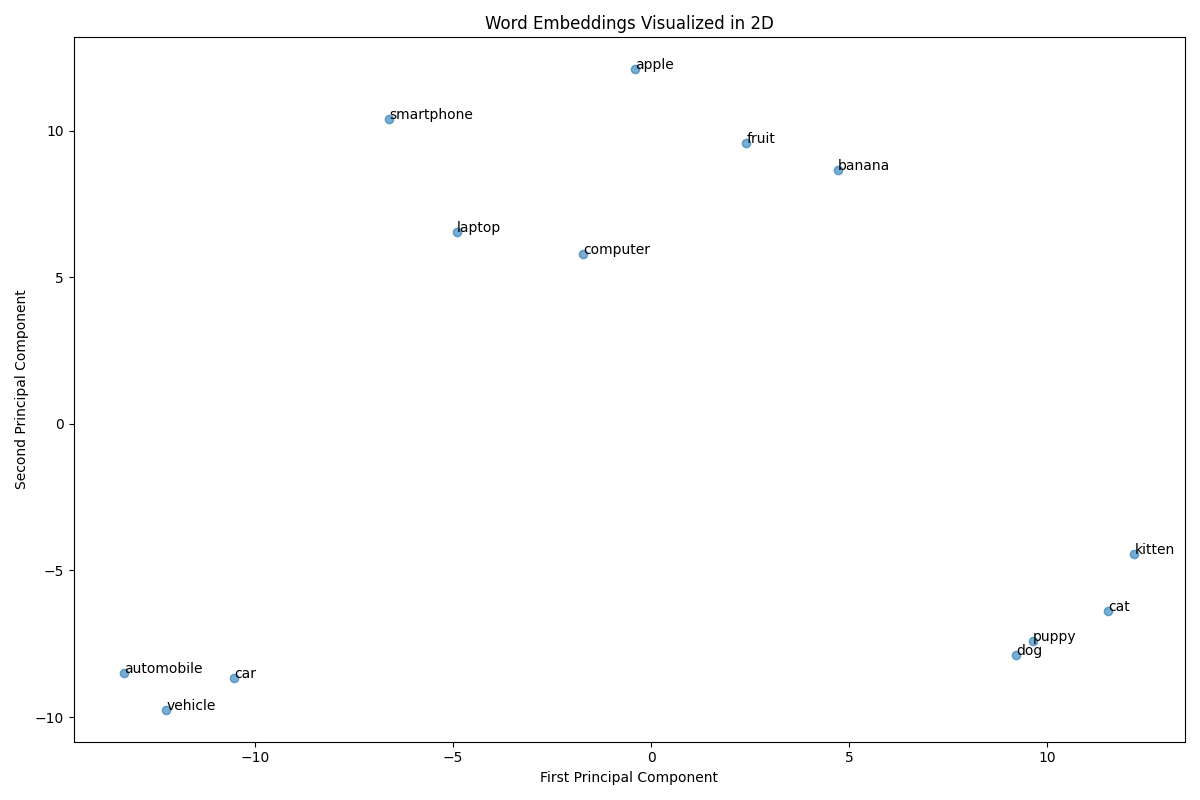
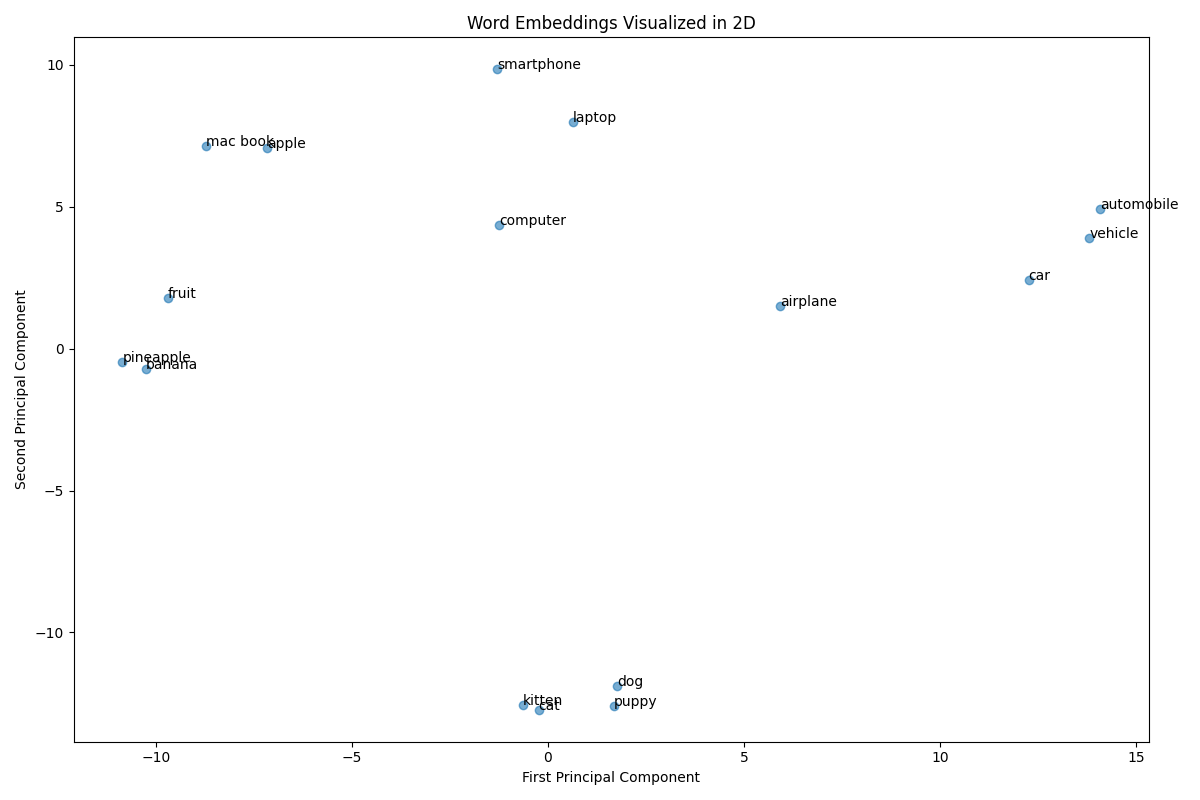
2024-11-07 11:13

diff --git a/2-document-summarize-validator.py b/2-document-summarize-validator.py
@@ -1,17 +1,14 @@
 #!/usr/bin/env python3
 
-import re
-import sys
-from typing import Dict, Any, Optional, List, Literal
-from loguru import logger
-import json
-from pathlib import Path
-import spacy
-from transformers import pipeline
-from rich import print
+import re, sys, json, spacy
+from loguru       import logger
+from pathlib      import Path
 from rich.console import Console
-from rich.table import Table
-from rich.panel import Panel
+from rich         import print
+from rich.panel   import Panel
+from rich.table   import Table
+from transformers import pipeline
+from typing       import Dict, Any, Optional, List, Literal
 
 # Configure logger
 logger.remove()
@@ -28,9 +25,9 @@ class DocumentValidator:
                  default_output='data/validated-index.json',
                  summarization_method: Literal['spacy', 'transformers', 'textrank', 'basic'] = 'basic'):
         """Initialize the document validator with summarization options"""
-        self.required_fields = ['url', 'title', 'content']
-        self.default_input = default_input
-        self.default_output = default_output
+        self.required_fields      = ['url', 'title', 'content']
+        self.default_input        = default_input
+        self.default_output       = default_output
         self.summarization_method = summarization_method
         
         # Initialize summarization components based on method
@@ -98,8 +95,8 @@ class DocumentValidator:
                 logger.warning(f"Document missing required fields: {missing_fields}")
                 return None
 
-            cleaned_url = self.clean_url(doc['url'])
-            cleaned_title = self.clean_title(doc['title'])
+            cleaned_url     = self.clean_url(doc['url'])
+            cleaned_title   = self.clean_title(doc['title'])
             cleaned_content = self.clean_content(doc['content'])
 
             if not cleaned_url or not re.match(r'^https?://', cleaned_url):
@@ -204,8 +201,8 @@ class DocumentValidator:
 
     def batch_validate_documents(self, documents: List[Dict[str, Any]]) -> List[Dict[str, Any]]:
         """Validate a batch of documents with progress tracking"""
-        valid_docs = []
-        total_docs = len(documents)
+        valid_docs   = []
+        total_docs   = len(documents)
         skipped_docs = 0
 
         with console.status("[bold green]Validating documents...") as status:
@@ -236,19 +233,21 @@ class DocumentValidator:
 
         total_docs = len(documents)
         avg_word_count = sum(doc['metadata']['word_count'] for doc in documents) / total_docs
+        
         avg_reduction = sum((doc['metadata']['original_length'] - doc['metadata']['cleaned_length']) / 
-                          doc['metadata']['original_length'] * 100 for doc in documents) / total_docs
+                             doc['metadata']['original_length'] * 100 for doc in documents) / total_docs
+        
         avg_summary_length = sum(doc['metadata']['summary_length'] for doc in documents) / total_docs
 
         stats = [
-            ("Total Documents", str(total_docs)),
-            ("Unique URLs", str(len(set(doc['url'] for doc in documents)))),
-            ("Average Word Count", f"{avg_word_count:.1f}"),
+            ("Total Documents",           str(total_docs)),
+            ("Unique URLs",               str(len(set(doc['url']                for doc in documents)))),
+            ("Average Word Count",        f"{avg_word_count:.1f}"),
             ("Average Content Reduction", f"{avg_reduction:.1f}%"),
-            ("Shortest Document", str(min(doc['metadata']['word_count'] for doc in documents))),
-            ("Longest Document", str(max(doc['metadata']['word_count'] for doc in documents))),
-            ("Average Summary Length", f"{avg_summary_length:.1f} words"),
-            ("Summarization Method", self.summarization_method)
+            ("Shortest Document",         str(min(doc['metadata']['word_count'] for doc in documents))),
+            ("Longest Document",          str(max(doc['metadata']['word_count'] for doc in documents))),
+            ("Average Summary Length",    f"{avg_summary_length:.1f} words"),
+            ("Summarization Method",      self.summarization_method)
         ]
 
         for metric, value in stats:

diff --git a/embeddings/4-model-produces-same-dimensions-for-similar-concepts.py b/embeddings/4-model-produces-same-dimensions-for-similar-concepts.py
@@ -14,23 +14,10 @@ model = SentenceTransformer('sentence-transformers/all-MiniLM-L6-v2')
 
 # Enhanced input texts with related concepts
 texts = [
-    # Animals
-    "cat",
-    "kitten",
-    "dog",
-    "puppy",
-    # Technology
-    "computer",
-    "laptop",
-    "smartphone",
-    # Food
-    "apple",
-    "banana",
-    "fruit",
-    # Transportation
-    "car",
-    "automobile",
-    "vehicle"
+    "cat",      "kitten",     "dog",        "puppy",     # Animals
+    "computer", "laptop",     "smartphone", "mac book",  # Technology
+    "apple",    "banana",     "fruit",      "pineapple", # Food
+    "car",      "automobile", "vehicle",    "airplane",  # Transportation
 ]
 
 # Get embeddings
